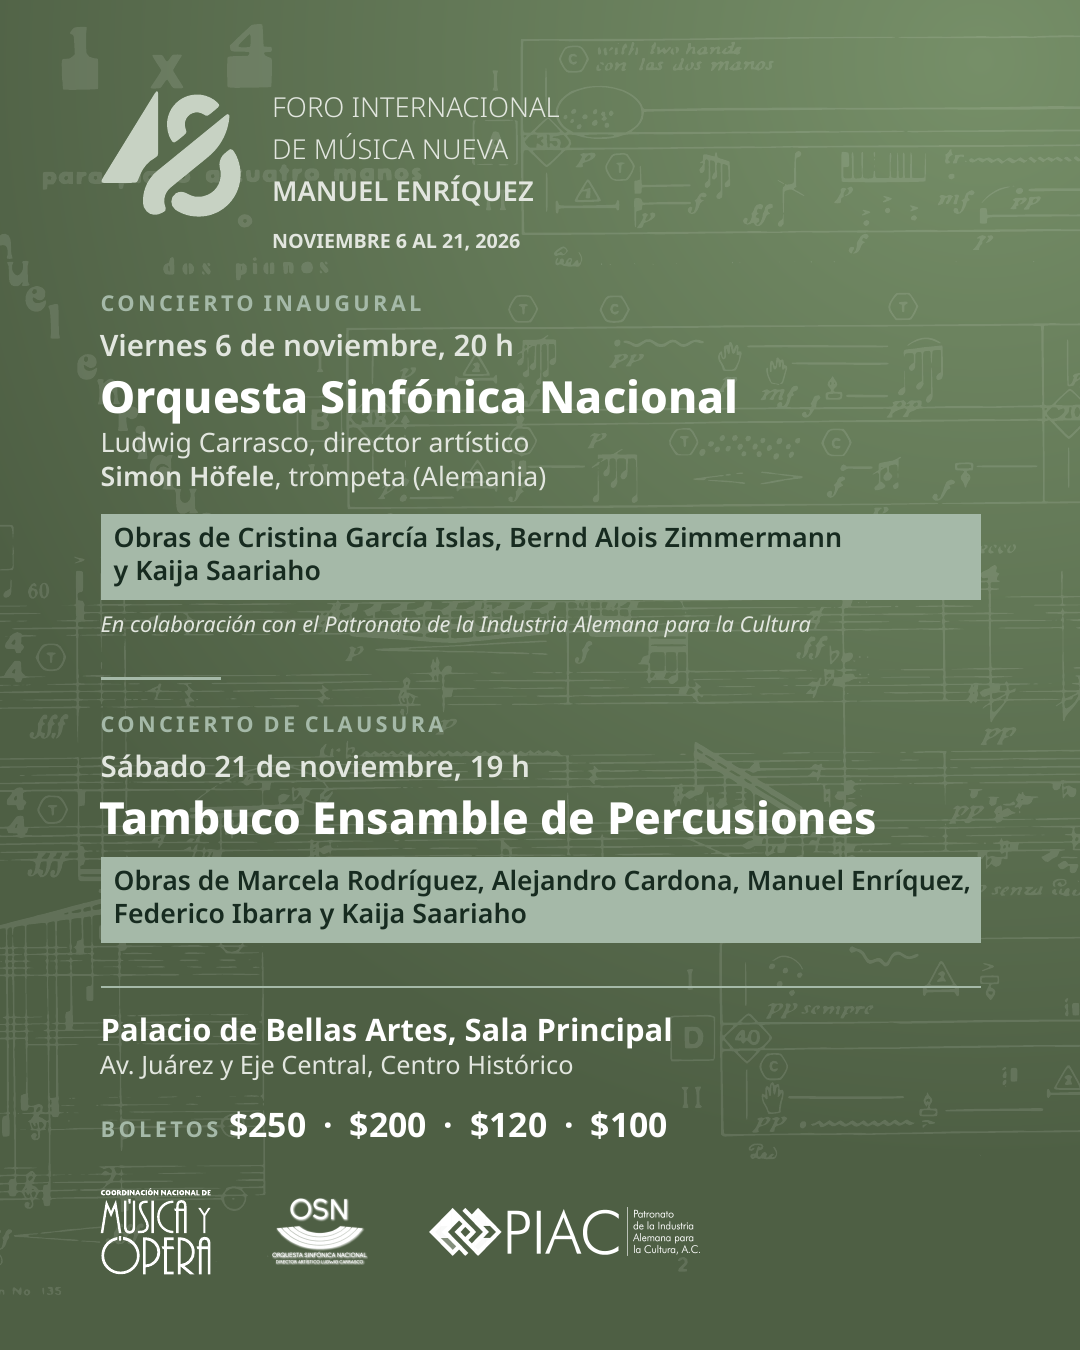
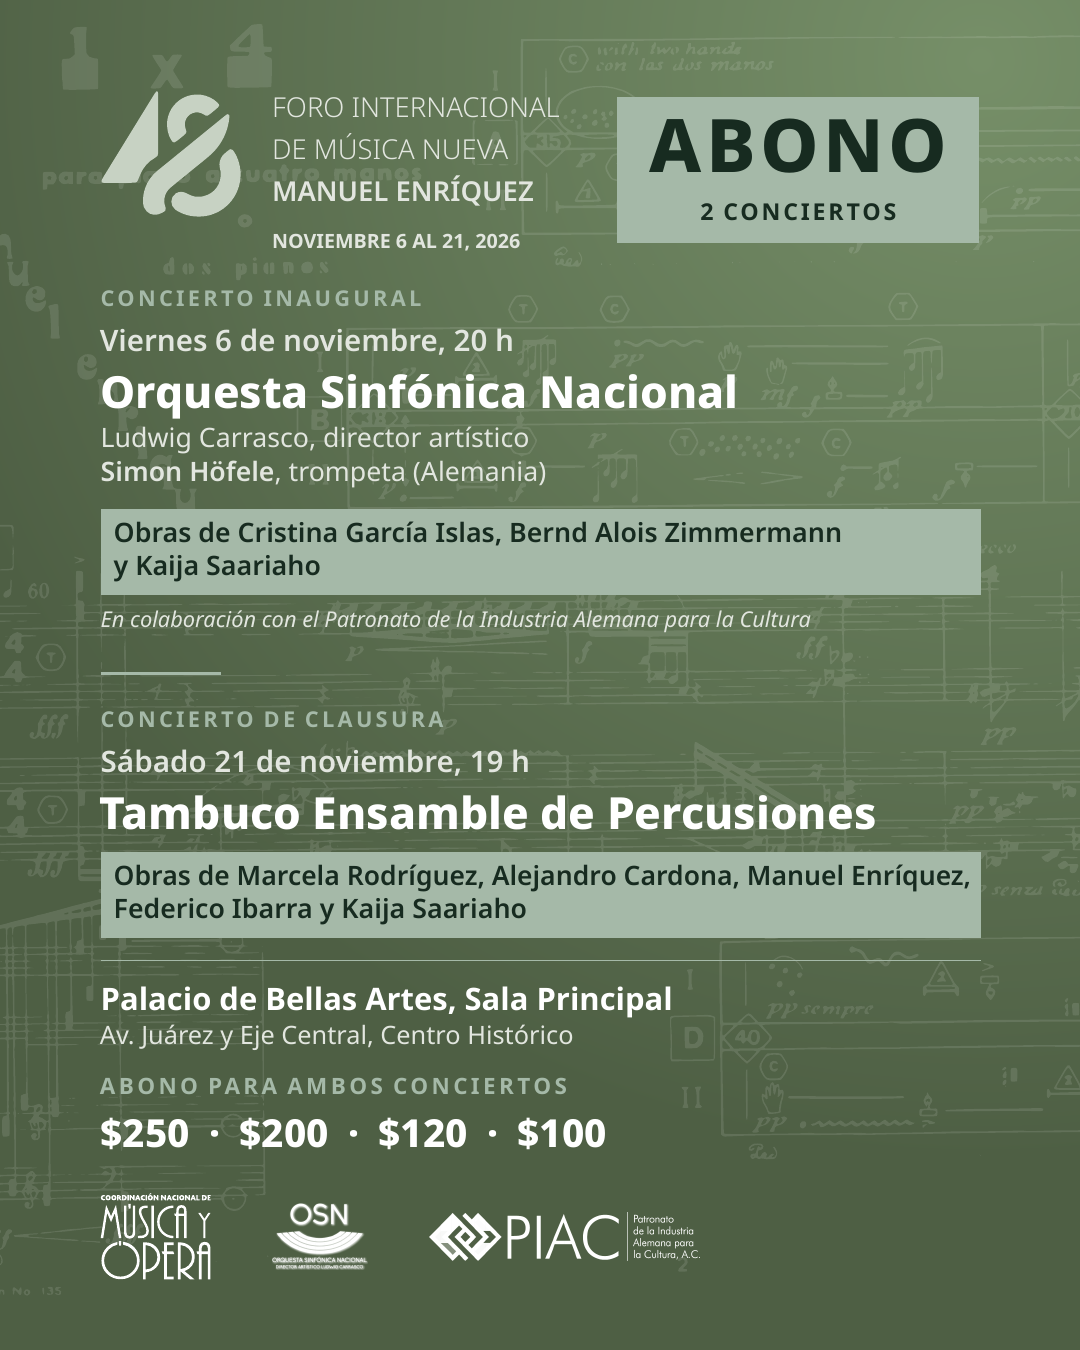
Postal: es un abono, con precios por ambos conciertos
Distintivo «ABONO · 2 conciertos» arriba a la derecha (como la caja de la
portada) y, sobre los precios, «Abono para ambos conciertos».

Claude-Session: https://claude.ai/code/session_01R4vD4JkaJhbukqHRjVF33c

Changed region(s): [[0.0917, 0.4978, 0.9167, 0.9644], [0.0917, 0.2178, 0.8861, 0.4667], [0.55, 0.0622, 0.9167, 0.1867]]

diff --git a/postal/postal.tex b/postal/postal.tex
@@ -1,6 +1,7 @@
 % =============================================================================
-%  Postal para la venta de boletos · 48.º FIMNME
-%  Concierto inaugural y de clausura (Palacio de Bellas Artes, Sala Principal).
+%  Postal para la venta del abono · 48.º FIMNME
+%  Concierto inaugural y de clausura (Palacio de Bellas Artes, Sala Principal);
+%  los precios son del abono, por los dos conciertos.
 %  Formato 4:5: 108 × 135 mm, que se exporta a 1080 × 1350 px (254 ppp).
 %  Mismo diseño que la portada del Programa general: fondo verde con la
 %  partitura, logotipo del Foro y Noto Sans.
@@ -58,7 +59,7 @@
 
 % ------------------------------------------------------------- Piezas -------
 % #1 qué concierto  #2 fecha  #3 conjunto  #4 dirección y solistas (o vacío)
-% #5 obras  #6 nota (o vacío). Los precios y la sede, comunes, van al pie.
+% #5 obras  #6 nota (o vacío). La sede y los precios del abono van al pie.
 \newcommand{\concierto}[6]{%
   {\fontsize{6.2}{7.4}\negrita\color{portadacaja}\espaciado[150]{\MakeUppercase{#1}}\par}
   \vspace{1mm}
@@ -98,9 +99,15 @@
       \fontsize{7.8}{9}\seminegrita MANUEL ENRÍQUEZ\\[0.5mm]
       \fontsize{5.6}{6.6}\negrita NOVIEMBRE 6 AL 21, 2026
     \end{tabular}};
+  % Distintivo: es un abono (dos conciertos)
+  \node[anchor=north east, fill=portadacaja, text=verdeoscuro, inner xsep=3.2mm,
+    inner ysep=2.2mm, align=center]
+    at ($(current page.north east)+(-10mm,-9.6mm)$) {%
+    {\fontsize{21}{22}\extranegrita\espaciado[60]{ABONO}}\\[0.6mm]
+    {\fontsize{6.6}{7.6}\negrita\espaciado[120]{2 CONCIERTOS}}};
   % Los dos conciertos
   \node[anchor=north west, inner sep=0pt, text width=88mm, align=flush left]
-    at ($(current page.north west)+(10mm,-29.5mm)$) {%
+    at ($(current page.north west)+(10mm,-29mm)$) {%
     \concierto{Concierto inaugural}{Viernes 6 de noviembre, 20 h}
       {Orquesta Sinfónica Nacional}
       {Ludwig Carrasco, director artístico\\
@@ -114,18 +121,19 @@
       {Obras de Marcela Rodríguez, Alejandro Cardona, Manuel Enríquez, Federico Ibarra
        y Kaija Saariaho}
       {}};
-  % Sede y boletos (los mismos para los dos conciertos)
+  % Sede y precios del abono (por los dos conciertos)
   \node[anchor=south west, inner sep=0pt, text width=88mm, align=flush left, text=portadatexto]
-    at ($(current page.south west)+(10mm,21mm)$) {%
-    {\color{portadacaja}\hrule width 88mm height 0.5pt}\vspace{3mm}
+    at ($(current page.south west)+(10mm,20mm)$) {%
+    {\color{portadacaja}\hrule width 88mm height 0.5pt}\vspace{2.6mm}
     {\fontsize{8.8}{10.4}\negrita\color{white}\sede\par}
     \vspace{0.3mm}{\fontsize{7.2}{8.6}\selectfont\direccion\par}
     \vspace{2.4mm}
-    {\fontsize{6.2}{7.4}\negrita\color{portadacaja}\espaciado[150]{BOLETOS}\enspace
-     \fontsize{9.6}{11}\negrita\color{white}\precios\par}};
+    {\fontsize{6.4}{7.6}\negrita\color{portadacaja}\espaciado[150]{ABONO PARA AMBOS CONCIERTOS}\par}
+    \vspace{0.8mm}
+    {\fontsize{11}{12.6}\extranegrita\color{white}\precios\par}};
   % Logotipos
   \node[anchor=south west, inner sep=0pt] (cnmo)
-    at ($(current page.south west)+(10mm,7.5mm)$) {\logocnmo{11mm}{white}};
+    at ($(current page.south west)+(10mm,7mm)$) {\logocnmo{11mm}{white}};
   \node[anchor=west, inner sep=0pt] (osn) at ($(cnmo.east)+(6mm,0)$)
     {\includegraphics[height=6.6mm]{build/postal/osn-blanco.png}};
   \node[anchor=west, inner sep=0pt] at ($(osn.east)+(6mm,0)$)

diff --git a/LEEME.md b/LEEME.md
@@ -7,7 +7,7 @@ El PDF `fimnme2026-programa.pdf` se genera a partir de `fimnme2026-programa.md`
 ./compila.sh            # compilación completa (3–10 pasadas, ~4 min)
 ./compila.sh --rapido   # una sola pasada, para revisar cambios
 resumen/compila.sh      # solo el programa resumido (la compilación completa también lo genera)
-postal/compila.sh       # solo la postal de boletos (también la genera la compilación completa)
+postal/compila.sh       # solo la postal del abono (también la genera la compilación completa)
 ```
 
 Requisitos: pandoc ≥ 3.1, TeX Live ≥ 2023 con LuaLaTeX (koma-script, tcolorbox,
@@ -27,7 +27,7 @@ Las fuentes Noto Sans van incluidas en `automatizacion/fuentes/`.
 | `48 FIMNME programas/` | Programas de mano individuales (docx), referencia para cotejar. |
 | `revision/` | Listas de correcciones y comentarios recibidos (con sus PDF), y ejemplos de referencia (`ejemplos/`). |
 | `resumen/` | Programa resumido (agenda en una página y programas condensados; ver `resumen/LEEME.md`). |
-| `postal/` | Postal para la venta de boletos (concierto inaugural y de clausura), 1080 × 1350 px, en PNG y PDF. Sus textos están en `postal/postal.tex`: si cambian esos conciertos en el Markdown, hay que cambiarlos ahí. |
+| `postal/` | Postal para la venta del abono (concierto inaugural y de clausura; los precios son por ambos conciertos), 1080 × 1350 px, en PNG y PDF. Sus textos están en `postal/postal.tex`: si cambian esos conciertos en el Markdown, hay que cambiarlos ahí. |
 | `automatizacion/plantilla/fimnme.latex` | Diseño: página, tipografía, colores, portada, divisorias, encabezados, fichas, índices. |
 | `automatizacion/fimnme.lua` | Convierte la estructura del Markdown en las macros del diseño. |
 | `automatizacion/preparar_imagenes.py` | Recorta y ajusta las fotos de `comp/` e `int/` (en `build/fotos/`). |
